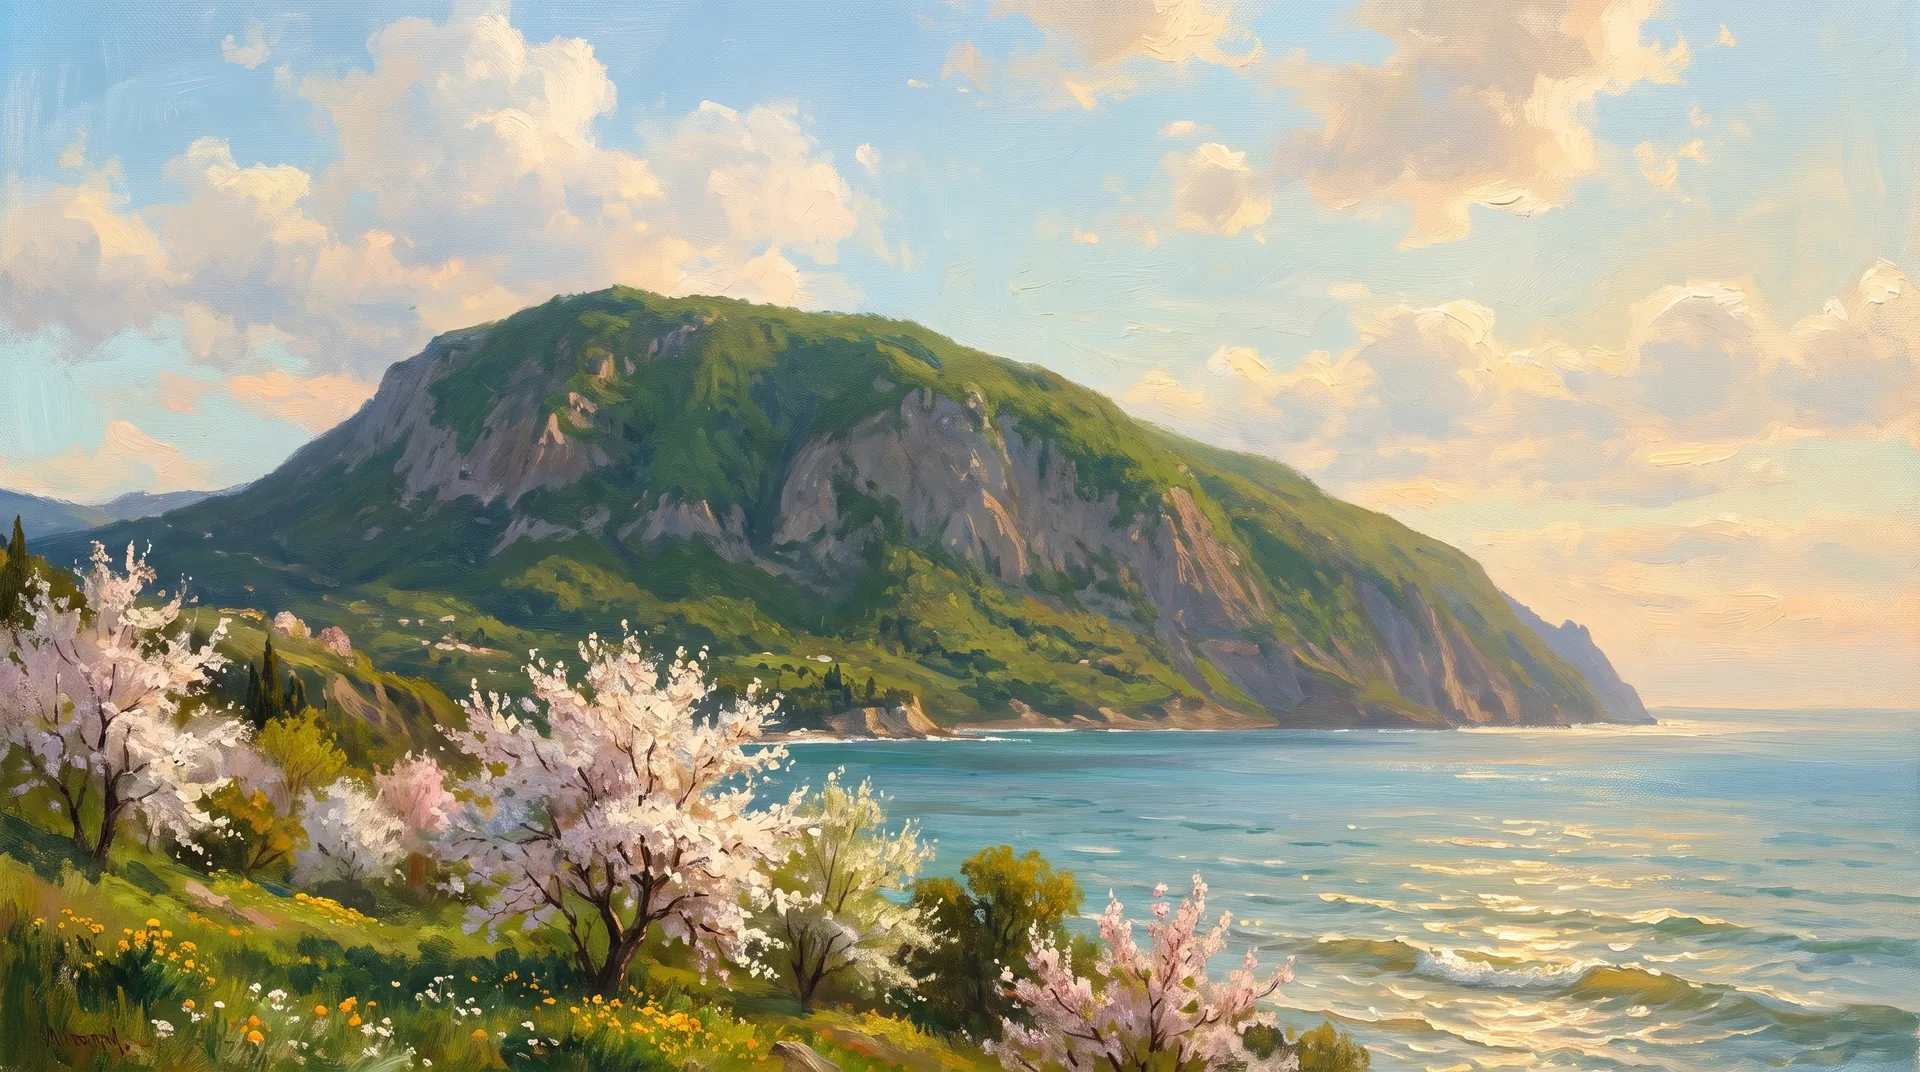
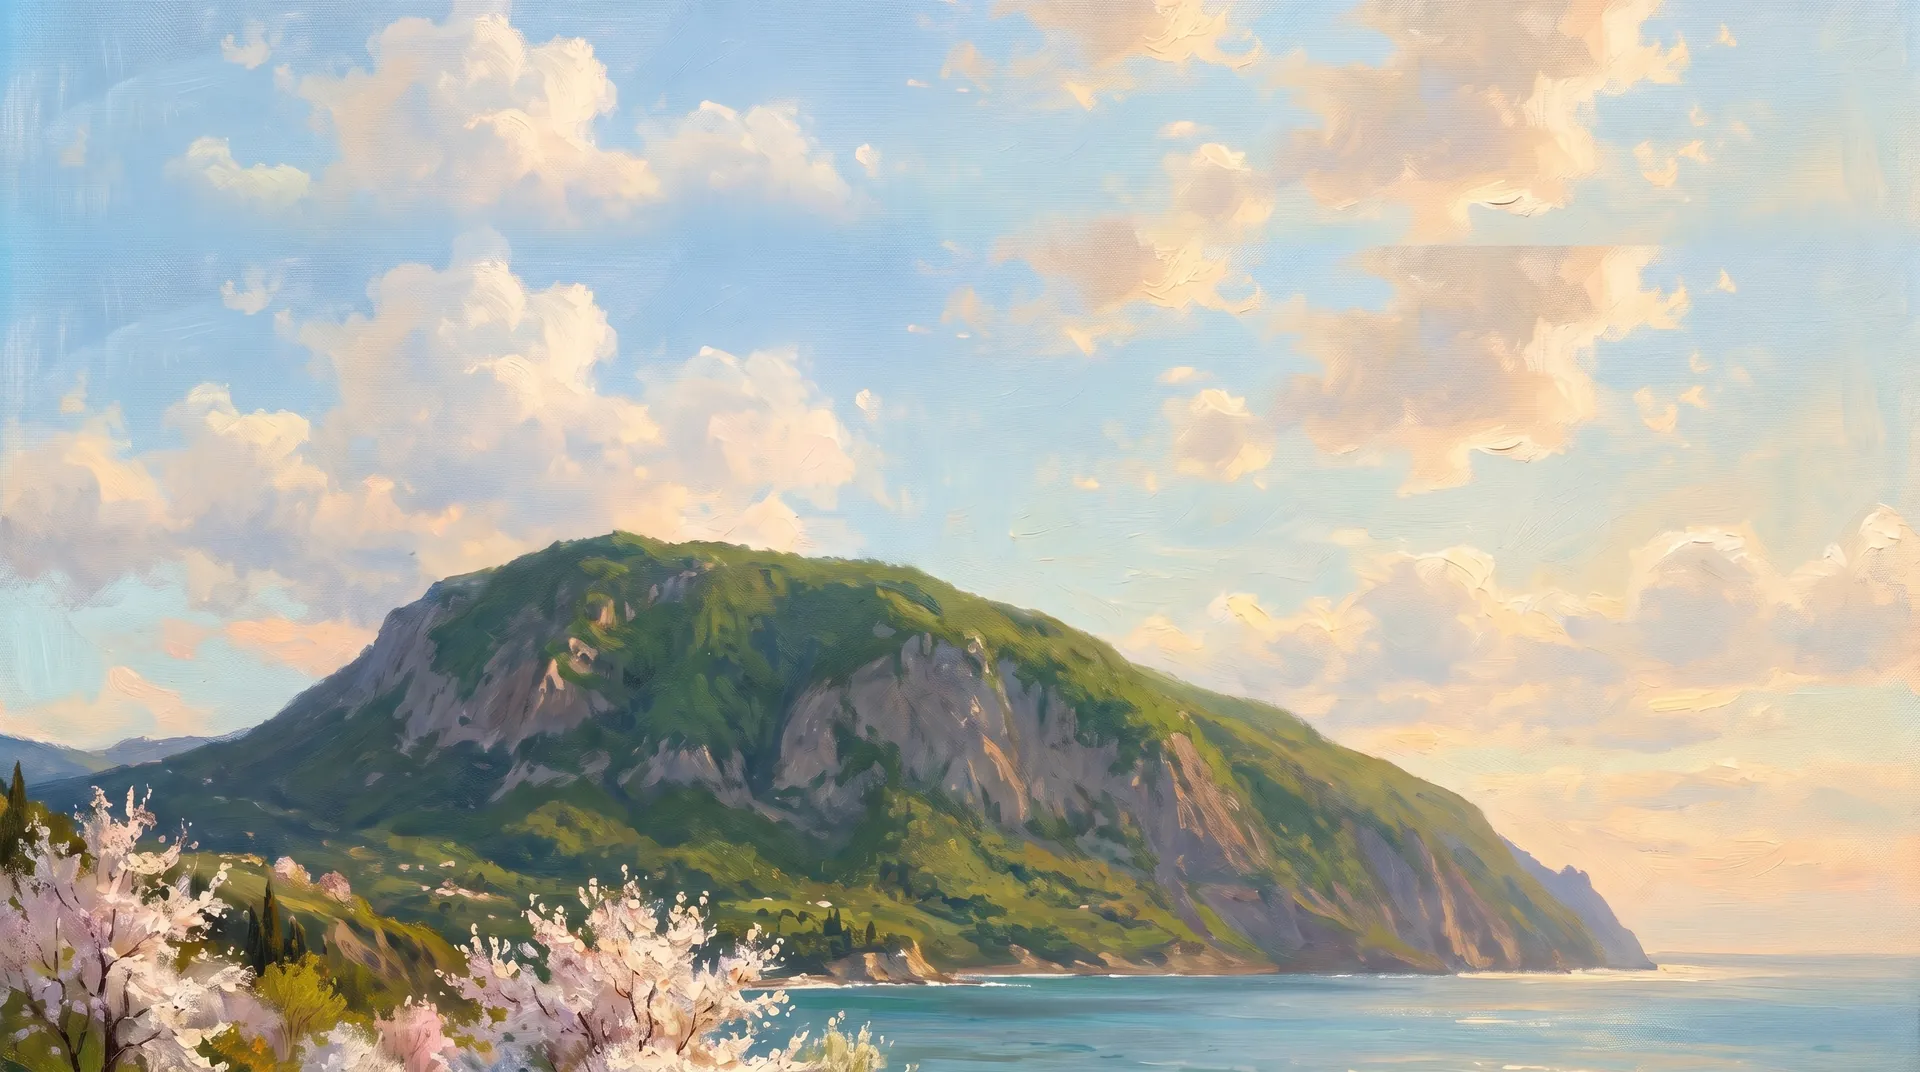
Filials: new spring Ayu-Dag painted from the storm one's framing
- Replace the spring painting with a version that matches the storm
  composition (summit at mid-height, same sea line), so both share the
  same bottom anchoring and the season change happens in place
- Drop the spring-only object-position override

diff --git a/index.html b/index.html
@@ -11,7 +11,7 @@
 <meta name="theme-color" content="#0a0607">
 <link rel="preconnect" href="https://fonts.googleapis.com">
 <link rel="preconnect" href="https://fonts.gstatic.com" crossorigin>
-<link rel="stylesheet" href="css/styles.css?v=80">
+<link rel="stylesheet" href="css/styles.css?v=81">
 <link rel="stylesheet" href="css/effects.css?v=2">
 </head>
 <body>
@@ -597,7 +597,7 @@
 <!-- ============ FILIALS scene ============ -->
 <section class="section scene scene--spring scene--filials">
   <div class="scene__media" data-parallax-bg="0.14">
-    <div class="imgslot"><img class="img--filials" src="assets/img/b2.jpg" alt="" onerror="this.remove()"><img class="img--filials img--spring" data-spring="assets/img/spring-ayudag.webp" alt="" decoding="async"></div>
+    <div class="imgslot"><img class="img--filials" src="assets/img/b2.jpg" alt="" onerror="this.remove()"><img class="img--filials img--spring" data-spring="assets/img/spring-ayudag.webp?v=2" alt="" decoding="async"></div>
   </div>
   <div class="scene__scrim scene__scrim--brushed"></div>
   <canvas class="petals petals--back" aria-hidden="true"></canvas>

diff --git a/css/styles.css b/css/styles.css
@@ -147,12 +147,6 @@ h1,h2,h3{font-family:var(--ff-display);font-weight:700;line-height:1;letter-spac
 .imgslot img{position:absolute;inset:0;width:100%;height:100%;object-fit:cover;z-index:1}
 .img--ship{object-position:64% 56%}
 .img--filials{object-position:50% 100%}
-/* the spring Ayu-Dag sits higher in its own frame (more blossoming shore
-   below, the same sky above) — anchoring it at the bottom like the storm
-   version cut off the sky and jammed the summit against the top edge;
-   a third of the way down puts the summit and the sea line where the
-   storm painting has them */
-.img--filials.img--spring{object-position:50% 0%}
 /* taller block on wide screens: the extra room goes between the heading
    and the ticker, so the heading stays put while the painting opens up
    almost to its full height — the mountain drops and the heading ends up
